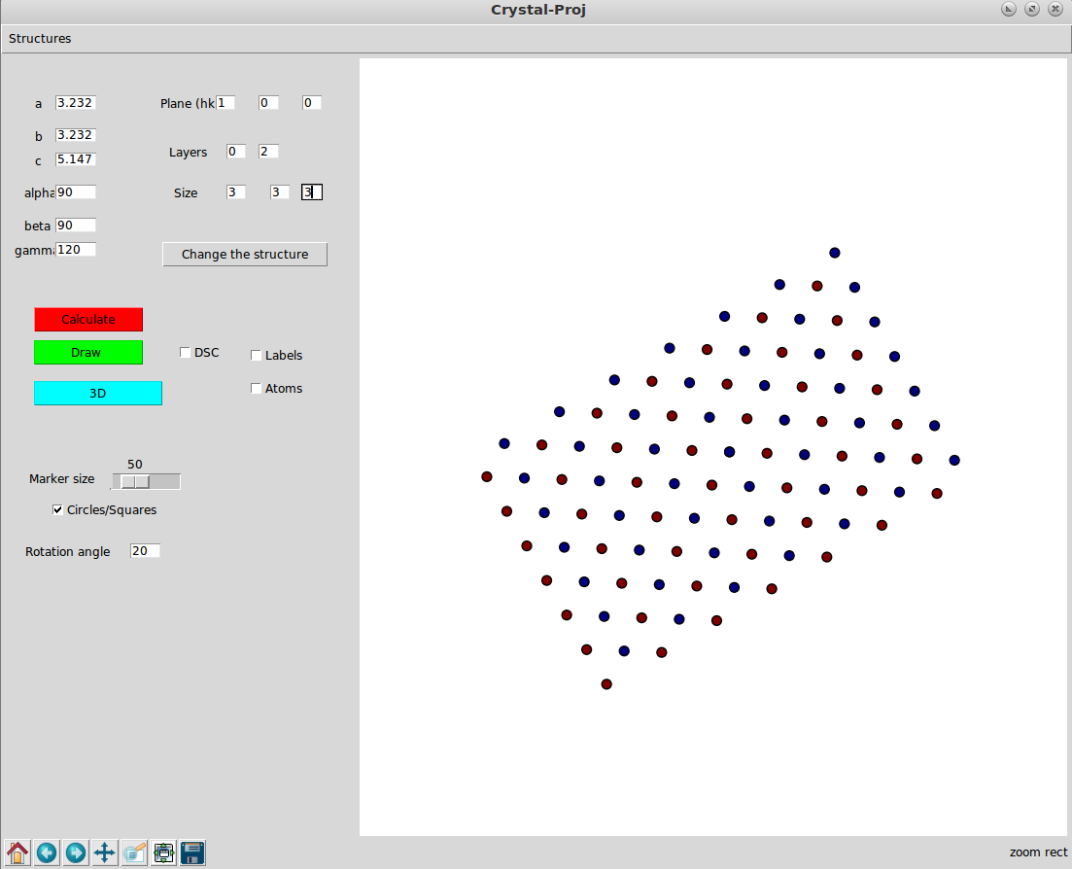
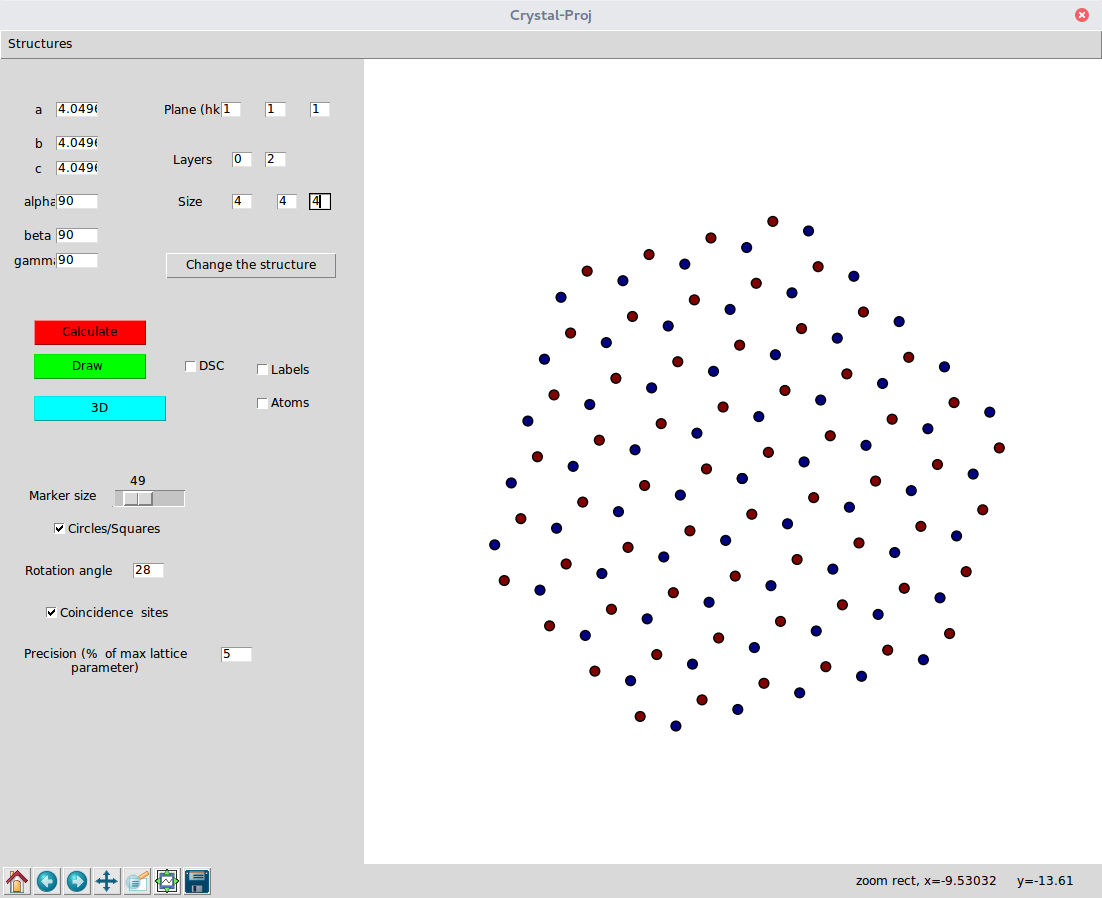
coincidence sites

diff --git a/cristal-proj.py b/cristal-proj.py
@@ -105,6 +105,7 @@ def calcul():
             E=np.vstack((E,Ca[0]))
             Dz=np.vstack((Dz,Ca[1]))        
             H=np.vstack((H,h*np.ones((np.shape(Ca[0])[0],1))))
+            
     if dsc_cond.get()==1:
         atom0=np.array([1,0,0,0])
         h=1
@@ -121,6 +122,7 @@ def calcul():
     EL=np.append(E,H,axis=1)
     EL=np.delete(EL,(0),axis=0)  
     Dz=np.delete(Dz,(0),axis=0)  
+    
  
 
 
@@ -151,39 +153,53 @@ def trace():
                 
                 vector=str(np.around(at[0],decimals=3))+','+str(np.around(at[1],decimals=3))+','+str(np.around(at[2],decimals=3))
                 fi.annotate(vector,(EL[q,0],EL[q,1]))
-                
+
     if dsc_cond.get()==1:
-        theta=eval(theta_entry.get())
-        theta=theta*np.pi/180
-        ELr=np.dot(EL[:,0:3],Rot(theta,0,0,1))
+		theta=eval(theta_entry.get())
+		theta=theta*np.pi/180
+		ELr=np.dot(EL[:,0:3],Rot(theta,0,0,1))
+		
+		
+		
+		M=unique(EL[:,3])
+		Ma=[]
+		m=('o','s','^','*','h','+')
+		if coin.get()==1:
+			coi=np.array([0])
+			ep=0.01*eval(ep_entry.get())*np.max([eval(a_entry.get()),eval(b_entry.get()),eval(c_entry.get())])
+			for i in range(0,np.shape(EL[:,3])[0]):
+				for j in range(0,np.shape(ELr[:,0])[0]):
+					if np.linalg.norm(EL[i,0:3]-ELr[j,:])<ep:
+						coi=np.hstack((coi,i))
+			coi=np.unique(coi)
+		for t in range(0,np.shape(M)[0]):
+			for i in range(0,np.shape(EL[:,3])[0]):
+				if EL[i,3]==M[t]:
+					Ma.append(m[t])
+		else:
+			Ma.append('D')
+
+		
+		for y in range(0,np.shape(EL[:,3])[0]):
+			fi.scatter(ELr[y,0],ELr[y,1],s=sim, marker=Ma[y],color='white',edgecolor='black')
+			fi.scatter(EL[y,0],EL[y,1],s=sim,marker=Ma[y], color='black',edgecolor='black' )
+		if coin.get()==1:
+			for z in coi:
+				fi.scatter(EL[z,0],EL[z,1],s=sim*1.5,marker=Ma[z], color='blue',edgecolor='black' )
+			
         
         
-        
-        M=unique(EL[:,3])
-        Ma=[]
-        m=('o','s','^','*','h','+')
-        for t in range(0,np.shape(M)[0]):
-            for i in range(0,np.shape(EL[:,3])[0]):
-                if EL[i,3]==M[t]:
-                    Ma.append(m[t])
-        else:
-            Ma.append('D')
-          
-        for y in range(0,np.shape(EL[:,3])[0]):
-            fi.scatter(EL[y,0],EL[y,1],s=sim*1,c='0',marker=Ma[y],cmap=cm.Greys_r )
-            fi.scatter(ELr[y,0],ELr[y,1],s=sim,c='1',marker=Ma[y],cmap=cm.Greys_r, facecolors='none')
-        
-        
-        if lab.get()==1:
-            for q in range(0,np.shape(EL)[0]):
-                at=Dz[q,:]
-                at=np.dot(at,Dstar)
-                
-                vector=str(np.around(at[0],decimals=1))+','+str(np.around(at[1],decimals=1))+','+str(np.around(at[2],decimals=1))
-                fi.annotate(vector,(EL[q,0],EL[q,1]))
+		if lab.get()==1:
+			for q in range(0,np.shape(EL)[0]):
+				at=Dz[q,:]
+				at=np.dot(at,Dstar)
+				
+				vector=str(np.around(at[0],decimals=1))+','+str(np.around(at[1],decimals=1))+','+str(np.around(at[2],decimals=1))
+				fi.annotate(vector,(EL[q,0],EL[q,1]))
     fi.axis('off') 
     fi.axis('equal')
-    fi.figure.canvas.draw() 
+    fi.figure.canvas.draw()                 
+   
 
  
 
@@ -321,7 +337,7 @@ def calcul_atom(atom):
             for j in range(-nb,nb+1):
                 for k in range(-nc,nc+1):
                         atom_pos=np.vstack((atom_pos,i*a*vec[0,:]+j*b*vec[1,:]+k*c*vec[2,:]))
-        
+    
     
     
     
@@ -373,55 +389,14 @@ def calcul_atom(atom):
     return F, Dz, atom_pos    
 
 
-def dsc():
-    global vec,varname,atom0,Dstar,taille,zoom, EL, Dz
-       
-    fi = f.add_subplot(111) 
-    fi.figure.clear()
-    fi = f.add_subplot(111) 
-    sim=taille.get()
-#    h=eval(h_entry.get())
-#    k=eval(k_entry.get())    
-#    l=eval(l_entry.get())
-    theta=eval(theta_entry.get())
-    theta=theta*np.pi/180
-    ELr=np.dot(EL[:,0:3],Rot(theta,0,0,1))
-    
-    
-    
-    M=unique(EL[:,3])
-    Ma=[]
-    m=('o','s','^','*','h','+')
-    for t in range(0,np.shape(M)[0]):
-        for i in range(0,np.shape(EL[:,3])[0]):
-            if EL[i,3]==M[t]:
-                Ma.append(m[t])
-    else:
-        Ma.append('D')
-      
-    for y in range(0,np.shape(EL[:,3])[0]):
-        fi.scatter(EL[y,0],EL[y,1],s=sim*1,c='0',marker=Ma[y],cmap=cm.Greys_r )
-        fi.scatter(ELr[y,0],ELr[y,1],s=sim,c='1',marker=Ma[y],cmap=cm.Greys_r, facecolors='none')
-    
-    
-    if lab.get()==1:
-        for q in range(0,np.shape(EL)[0]):
-            at=Dz[q,:]
-            at=np.dot(at,Dstar)
-            
-            vector=str(np.around(at[0],decimals=1))+','+str(np.around(at[1],decimals=1))+','+str(np.around(at[2],decimals=1))
-            fi.annotate(vector,(EL[q,0],EL[q,1]))
-                
-    fi.axis('off') 
-    fi.axis('equal')
-    fi.figure.canvas.draw()     
+
 
 
 
 
 def getFileName():
     global varname
-    varname = askopenfilename(initialdir=os.getcwd())
+    varname = askopenfilename(initialdir='/home/mompiou/Documents/programme_desorientation/prog-python/crystal-proj/')
     return varname
 
 
@@ -452,7 +427,7 @@ default = style.lookup(theme, 'background')
 root.configure(background=default)
 
 def init():
-    global varname, lab, ato, rond,zoom,taille, dsc_cond
+    global varname, lab, ato, rond,zoom,taille, dsc_cond,coin
     varname=0
     lab=IntVar()
     ato=IntVar()
@@ -460,6 +435,7 @@ def init():
     zoom=IntVar()
     taille=IntVar()
     dsc_cond=IntVar()
+    coin=IntVar()
     
 init()  
 
@@ -643,6 +619,20 @@ theta_entry = Entry (master=root)
 theta_entry.place(relx=0.12,rely=0.60,relheight=0.02 ,relwidth=0.03)
 theta_entry.configure(selectbackground="#c4c4c4")
 
+coi_check = Checkbutton (master=root)
+coi_check.place(relx=0.02,rely=0.65,relheight=0.02,relwidth=0.15)
+coi_check.configure(activebackground="#f9f9f9")
+coi_check.configure(text='''Coincidence  sites''')
+coi_check.configure(variable=coin)
+
+ep_label = Label (master=root)
+ep_label.place(relx=0.02,rely=0.70,height=29,width=174)
+ep_label.configure(activebackground="#f9f9f9")
+ep_label.configure(text='''Precision (%  of max lattice parameter)''', anchor=W, wraplength=174)
+
+ep_entry = Entry (master=root)
+ep_entry.place(relx=0.2,rely=0.70,relheight=0.02 ,relwidth=0.03)
+ep_entry.configure(selectbackground="#c4c4c4")
 
 
 
@@ -698,6 +688,7 @@ c_entry.insert(1,1)
 h_entry.insert(1,1)
 k_entry.insert(0,0)
 l_entry.insert(0,0)
+ep_entry.insert(5,5)
 alp_entry.insert(90,90)
 bet_entry.insert(90,90)
 gam_entry.insert(90,90)

diff --git a/README.md b/README.md
@@ -44,4 +44,5 @@ with atomn is nth atom in the cell at coordinate xn, yn, zn and vkx,vky,vkz is t
 ![img3](/img3.png?raw=true)
 * To draw the corresponding dichromatic pattern check the "DSC" button, recalculate (press "Calculate") and then "Draw". The dichromatic pattern is drawn according the usual convention: black and white crystals correspond to two different grains and different symbols to different layers (note that you can plot up to 7 different layers with different symbols)
 ![img4](/img4.png?raw=true)
+*Tick the "Coincidence sites" button to draw coincident site positions. The precision by which is defined coincidence  can be tuned. It is expressed in % of the largest lattice parameter.
 
